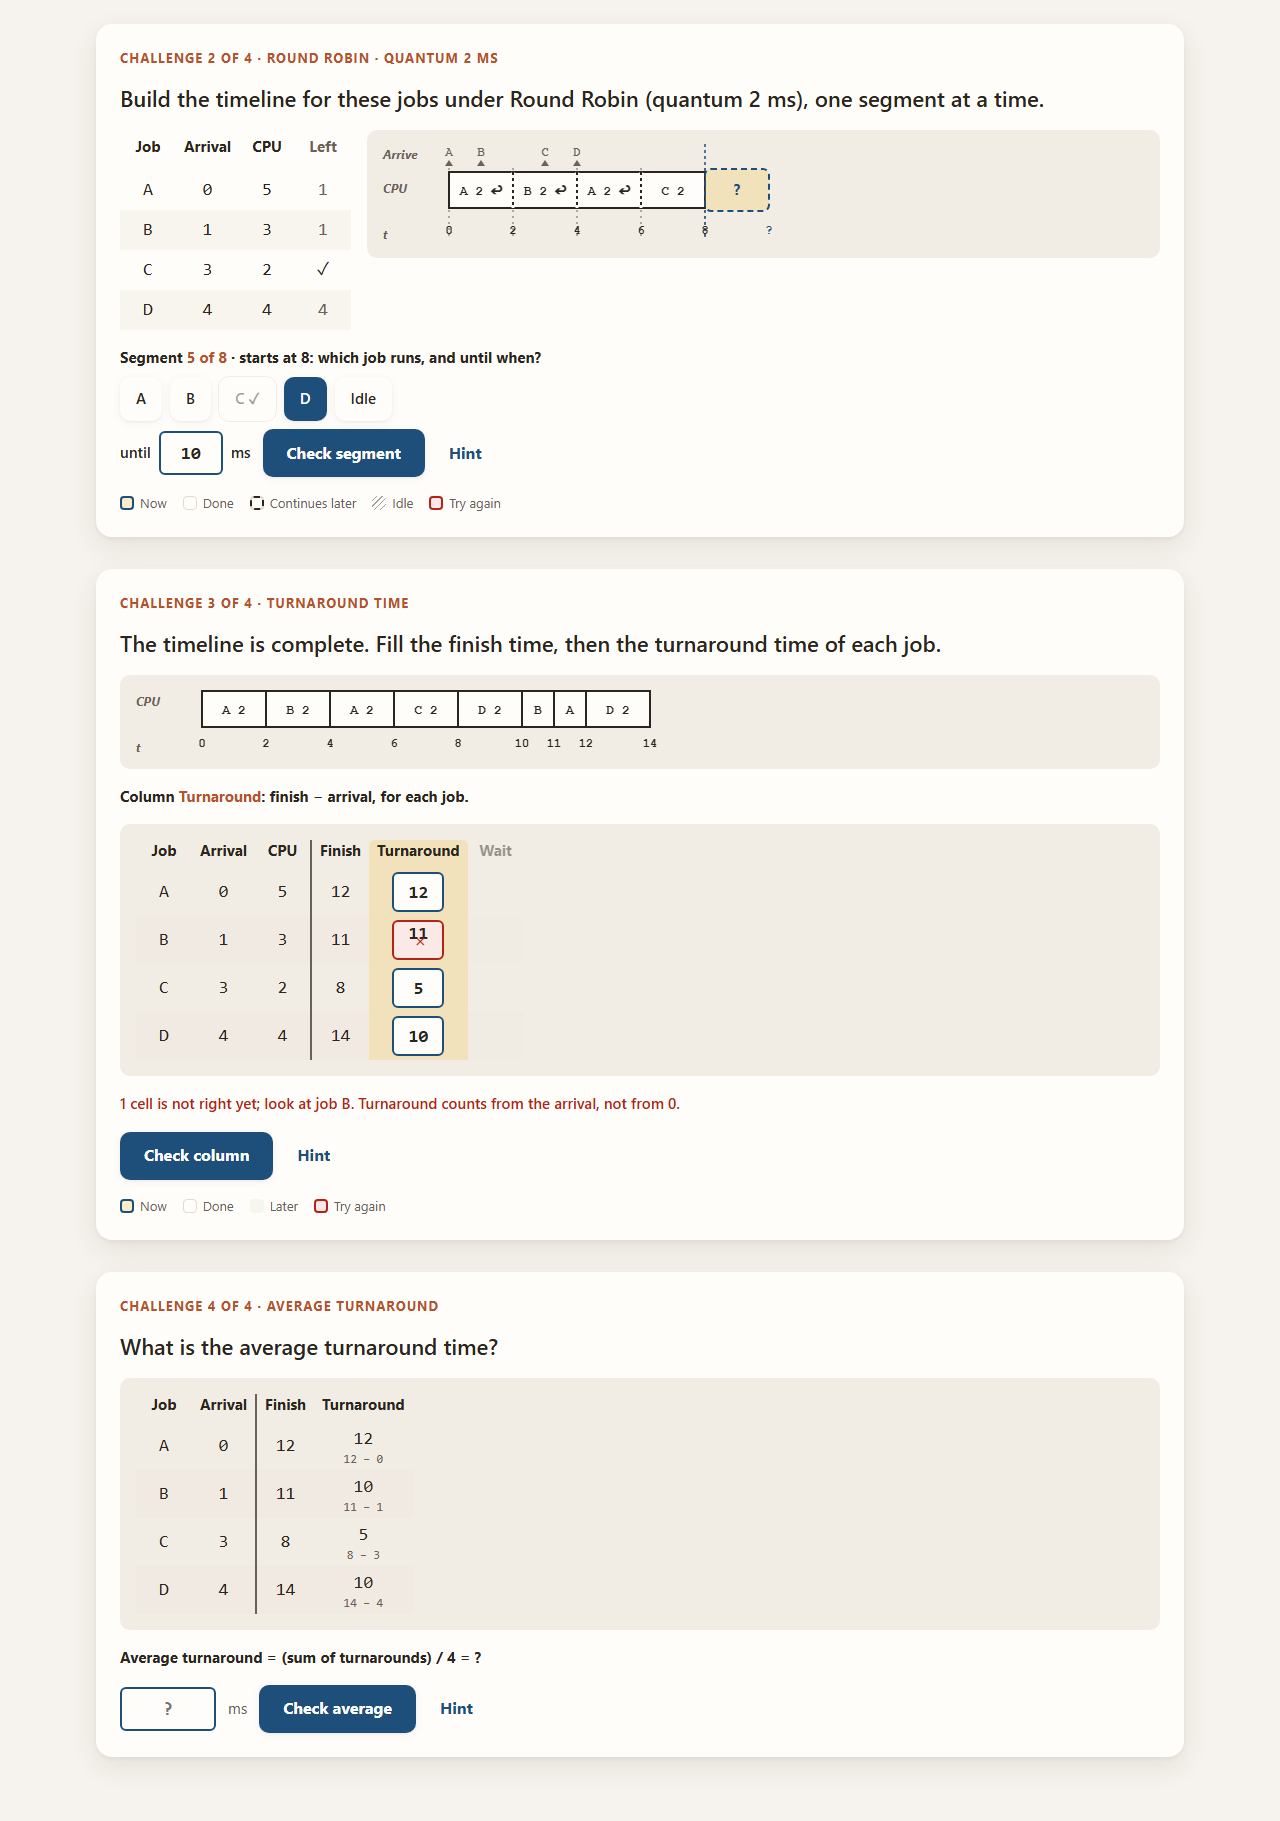
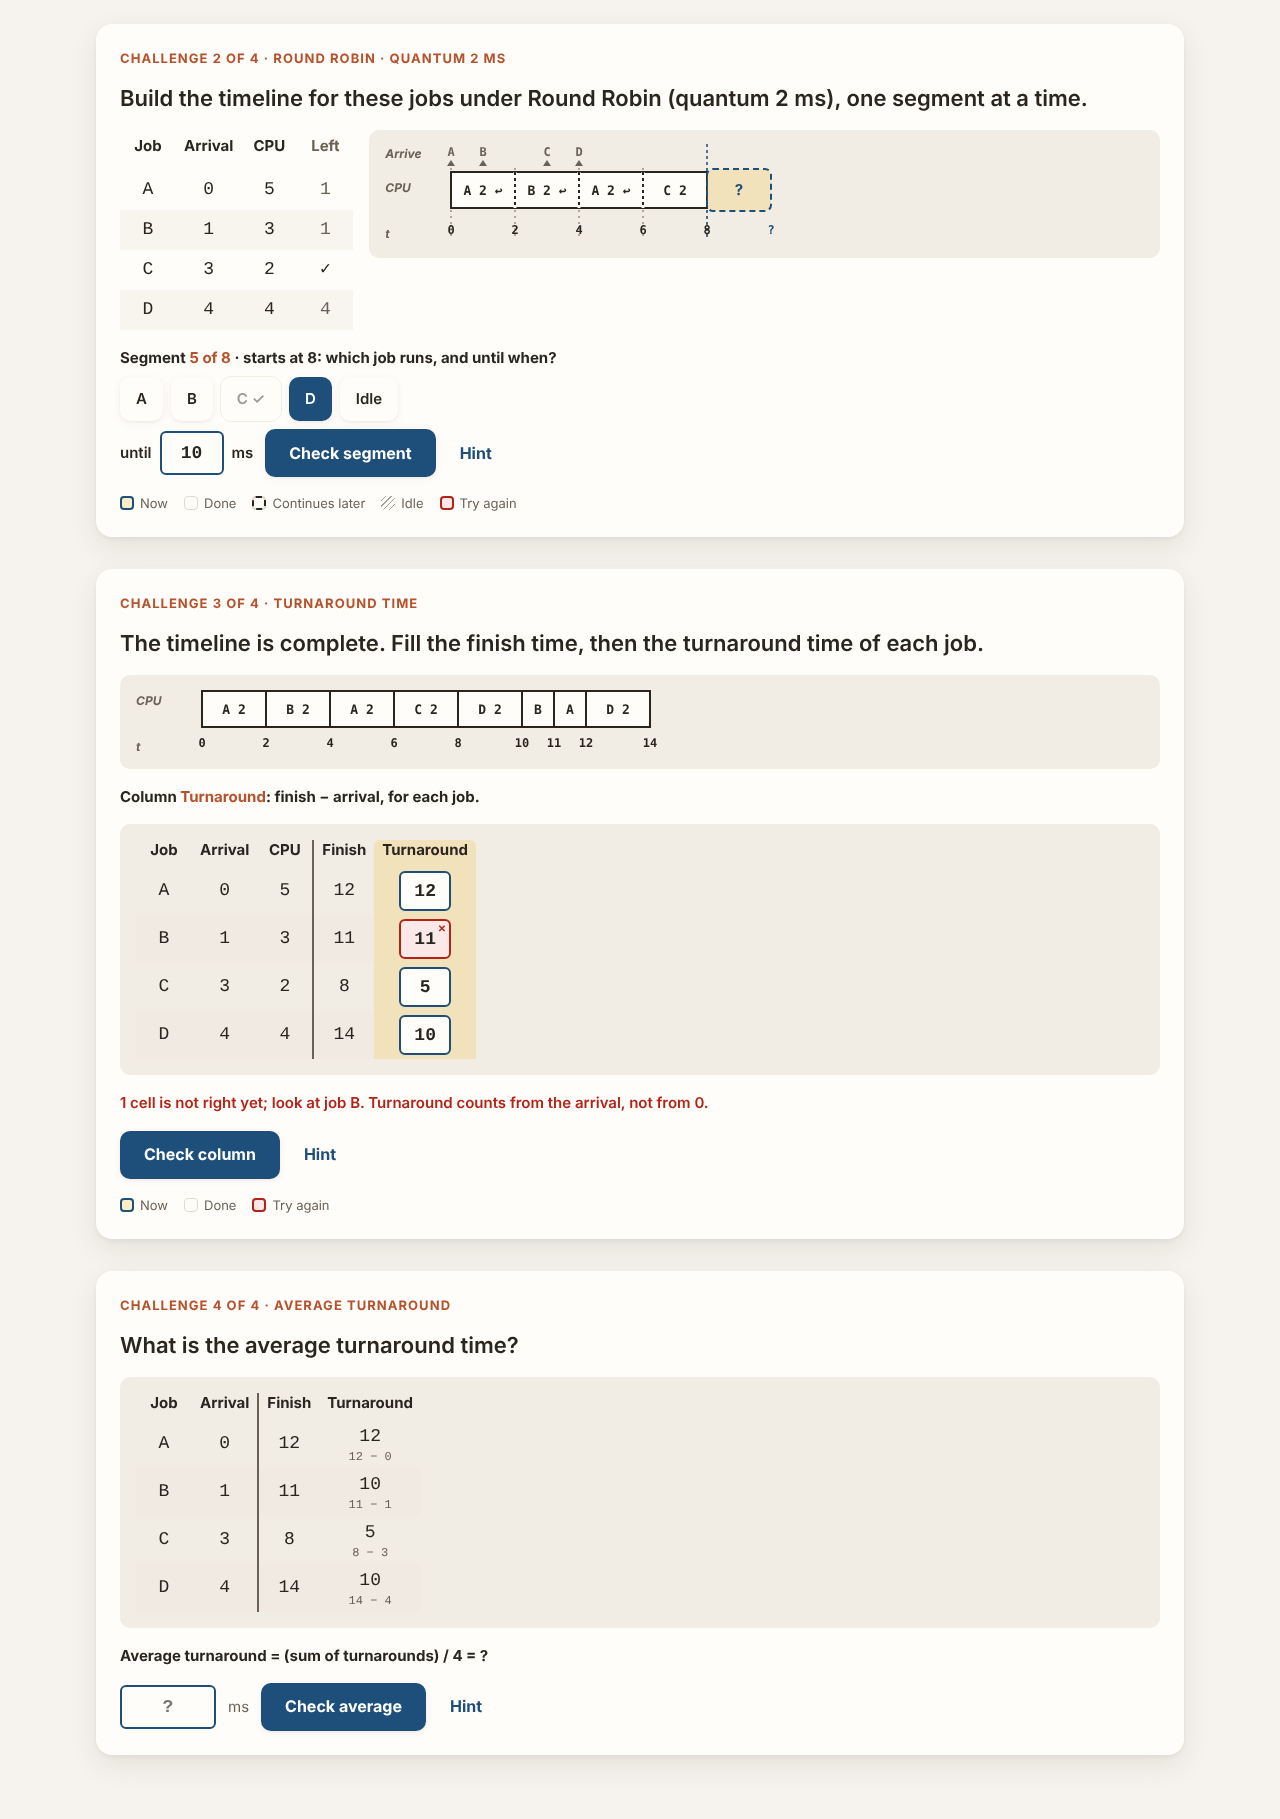
docs(design): CPET181 kinds spec fix: no waiting time, signed/decimal entry (#545)
Role: UI / Interaction Engineer

Claude-Session: https://claude.ai/code/session_01BQQUnWhCftSGR8Rfa6Ak5k

diff --git a/docs/design/cpet181/mockups/cpu-schedule.html b/docs/design/cpet181/mockups/cpu-schedule.html
@@ -73,15 +73,15 @@
     </g>
   </svg></div></div></div>
 <p class="goal">Column <b>Turnaround</b>: finish − arrival, for each job.</p>
-<div class="well"><table class="tt result" aria-label="Finish and turnaround times"><thead><tr><th>Job</th><th>Arrival</th><th>CPU</th><th class="sep">Finish</th><th class="act">Turnaround</th><th class="pend">Wait</th></tr></thead><tbody>
-<tr><td>A</td><td>0</td><td>5</td><td class="sep">12</td><td class="act"><span class="cellbtn w">12</span></td><td class="pend"></td></tr>
-<tr><td>B</td><td>1</td><td>3</td><td class="sep">11</td><td class="act"><span class="cellbtn w wrong">11</span></td><td class="pend"></td></tr>
-<tr><td>C</td><td>3</td><td>2</td><td class="sep">8</td><td class="act"><span class="cellbtn w">5</span></td><td class="pend"></td></tr>
-<tr><td>D</td><td>4</td><td>4</td><td class="sep">14</td><td class="act"><span class="cellbtn w">10</span></td><td class="pend"></td></tr>
+<div class="well"><table class="tt result" aria-label="Finish and turnaround times"><thead><tr><th>Job</th><th>Arrival</th><th>CPU</th><th class="sep">Finish</th><th class="act">Turnaround</th></tr></thead><tbody>
+<tr><td>A</td><td>0</td><td>5</td><td class="sep">12</td><td class="act"><span class="cellbtn w">12</span></td></tr>
+<tr><td>B</td><td>1</td><td>3</td><td class="sep">11</td><td class="act"><span class="cellbtn w wrong">11</span></td></tr>
+<tr><td>C</td><td>3</td><td>2</td><td class="sep">8</td><td class="act"><span class="cellbtn w">5</span></td></tr>
+<tr><td>D</td><td>4</td><td>4</td><td class="sep">14</td><td class="act"><span class="cellbtn w">10</span></td></tr>
 </tbody></table></div>
 <p class="feedback">1 cell is not right yet; look at job B. Turnaround counts from the arrival, not from 0.</p>
 <div class="row"><a class="btn btn-primary" href="#">Check column</a><a class="btn btn-quiet" href="#">Hint</a></div>
-<div class="legend"><span><i class="sw active"></i>Now</span><span><i class="sw done"></i>Done</span><span><i class="sw pend"></i>Later</span><span><i class="sw wrong"></i>Try again</span></div>
+<div class="legend"><span><i class="sw active"></i>Now</span><span><i class="sw done"></i>Done</span><span><i class="sw wrong"></i>Try again</span></div>
 </section>
 
 <!-- Challenge: average (keep it) -->

diff --git a/docs/design/cpet181/mockups/cpet181.css b/docs/design/cpet181/mockups/cpet181.css
@@ -67,3 +67,7 @@
 .fields { display: flex; gap: var(--space-3); flex-wrap: wrap; align-items: center; }
 .fields label { display: inline-flex; align-items: center; gap: var(--space-2); font-weight: 600; font-size: var(--text-sm); }
 @media (max-width: 640px) { .queue { flex-wrap: nowrap; overflow-x: auto; padding-bottom: 4px; } .queue .chip { white-space: nowrap; } }
+
+/* the wrong-cell mark sits in the cell's top-right corner, clear of the digits (#545 review note) */
+.tt.result .cellbtn { position: relative; }
+.tt.result .cellbtn.wrong::after { position: absolute; left: auto; right: 3px; top: 1px; }

diff --git a/docs/design/cpet181/kinds-spec.md b/docs/design/cpet181/kinds-spec.md
@@ -35,6 +35,19 @@ the packs (#527).
 - **Keyboard:** no drag anywhere. Choices are one `radiogroup` with a single tab stop (arrows move,
   Space/Enter picks, Check confirms). Number fields are `inputmode="numeric"` inputs, 44 px tall.
   Grids follow the truth-table ARIA grid model (one tab stop, arrows move, typing sets).
+### 0.1 Signed and decimal entry (#558)
+`NumericInput` base 10 has two opt-in props, off by default (PR #558); every other numeric field in
+the two kinds stays a plain whole-number field.
+- **`decimals={2}`** for every average: one decimal point, at most 2 places after it, `inputmode=decimal`.
+  The student types the value as the pack prints it (9.25, 16.67). Graded exactly against the truth
+  module's value rounded to 2 places; a whole result (10) is accepted as "10" or "10.00".
+- **`signed`** for relocation registers (`register` step, §2.7): one leading minus, `inputmode=text`
+  (phone number pads have no minus key). A typed "−" (U+2212) is stored as "-". The slides print
+  registers as negative numbers (for example −8192); a positive register is the `register-sign` detector.
+- Both are shown in the field's hint line ("digits 0 to 9, a leading minus sign"); the unit sits after
+  the field, outside it. All other numeric fields (end time, start, size, addresses, totals) are
+  whole, unsigned numbers.
+
 - **Primitives reused** (kinds never import each other; shared code moves to `src/kinds/shared/`):
 
 | Need | Reuse | From |
@@ -45,7 +58,7 @@ the packs (#527).
 | Fill one table column per goal; `wrongCells.first`; 36 × 44 px cells; two-level headers; sticky header on phones | the truth-table grid model and styles, lifted into `src/kinds/shared/GridColumn.tsx` + CSS (the truth-table component itself stays Boolean-only) | `src/kinds/truth-table/TruthTable.tsx`, `TruthTable.module.css` |
 | Multi-digit cell inputs, 44 px, first-wrong marking | column-addition's `.input` cells | `src/interactions/ColumnAddition/ColumnAddition.module.css` |
 | Given / focus / result states on a drawing | ADR-0009 figure states (no `figure` field needed: the drawing is the kind's own) | `src/kinds/shared/figures/figures.module.css` |
-| Numeric single answer (average, register) | `NumericInput` (base 10) | `src/interactions/NumericInput` |
+| Numeric single answer (average, register) | `NumericInput` (base 10) with `signed` / `decimals` (§0.1) | `src/interactions/NumericInput` |
 
 ---
 
@@ -58,20 +71,21 @@ the packs (#527).
   policy: "FCFS" | "SJN" | "SRT" | "Priority" | "RR",
   quantum?: number,                  // RR only
   jobs: { id: "A"|"B"|…, arrival: number, cpu: number, priority?: number }[],  // 3–6, slide order
-  phases: ("timeline" | "finish" | "turnaround" | "wait" | "average")[],       // in this order; default all
+  phases: ("timeline" | "finish" | "turnaround" | "average")[],               // in this order; default all four
   unit?: "ms",                       // label only
 }
 ```
 Truth: `schedule(jobs, policy, { quantum, tieBreak })` → `segments[] {job | "idle", start, end}`,
-per-job `finish`, `turnaround`, `wait`, and averages. Tie-break and quantum-boundary conventions
+per-job `finish` and `turnaround`, and the average turnaround. Waiting time is never asked or shown
+(the truth module may compute it internally; nothing in the kinds reads it). Tie-break and quantum-boundary conventions
 are the truth module's (pack A); the view shows nothing that depends on them.
 
 ### 1.2 Steps (ADR-0007)
 | tag | one per | answer | Check label |
 |---|---|---|---|
 | `segment` | timeline segment, in time order | `{ step, job: id \| "idle", end: number }` | Check segment |
-| `column` | phase column in `phases` order: finish, turnaround, wait | `{ step, values: number[] }` (one per job, jobs order) | Check column |
-| `average` | the asked average (turnaround; wait if `wait` is in phases) | `{ step, value: number }` | Check average |
+| `column` | phase column in `phases` order: finish, turnaround | `{ step, values: number[] }` (one per job, jobs order) | Check column |
+| `average` | the average turnaround | `{ step, value: number }`, entered to 2 decimals (§0.1) | Check average |
 
 Step vars: `segmentNumber`, `segmentCount`, `time` (the segment's start), `readyList` (ids ready at
 `time`, for hint rung 5 only), `jobId`, `segmentEnd`, `columnLabel`, `jobCount`, `quantum`,
@@ -137,9 +151,9 @@ Exactly the slide's picture: one row of boxes, tick numbers underneath.
   for the next segment, live region: "Segment 3 correct: A runs 5 to 9. Next starts at 9."
 - Last segment correct: the lane is complete; the live region says "Timeline complete."
 
-### 1.6 Result table (phases finish → turnaround → wait → average)
+### 1.6 Result table (phases finish → turnaround → average)
 The slides list Finish time and Turn Around Time as "15 − 0 = 15" per job, then the average.
-- A table under the lane: **Job · Arrival · CPU · Finish · Turnaround (· Wait)**, one row per job in
+- A table under the lane: **Job · Arrival · CPU · Finish · Turnaround**, one row per job in
   table order. Given columns are filled; the asked column is *Now*; later columns are *Later*
   (headers visible, dim). Column per goal, as truth-table fill mode; cells are 44 px tall and 56 px
   wide (two-digit numbers), 48 px on phones. First wrong cell only is marked; the feedback names
@@ -147,11 +161,9 @@ The slides list Finish time and Turn Around Time as "15 − 0 = 15" per job, the
 - Turnaround cells show the subtraction as a muted hint only after the column is correct:
   "9 − 1 = 8" (see inside). Never before.
 - **Average**: a single `NumericInput` under the table, "Average turnaround = (sum) / n = ?" with the
-  sum written out **after** the check (see inside), two decimals accepted as the pack states them
-  (truth module decides rounding). Check average. On correct: the lane's finish ticks get their
+  sum written out **after** the check (see inside), entered to **2 decimals**
+  (`decimals={2}`, §0.1) and graded exactly against the truth module's value rounded to 2 places. Check average. On correct: the lane's finish ticks get their
   job id under them (keep it) and the summary line reads the average.
-- `wait` is optional (`phases`); the slides do not compute it, so content adds it only where the
-  pack does.
 
 ### 1.7 Hints and detectors (what the view must be able to show)
 - Rung 5 (visual) focus targets: `ready-now` (the arrivals strip at `time` plus a "ready: B, D"
@@ -164,12 +176,12 @@ The slides list Finish time and Turn Around Time as "15 − 0 = 15" per job, the
   (SJN/Priority/FCFS: stopped a job early), `end-past-remaining` (RR: full quantum though less was
   left), `priority-reversed` (pack's convention inverted), `rr-queue-order` (requeued job placed
   before a same-tick arrival, or vice versa; convention from pack A), `turnaround-as-finish`
-  (forgot the arrival), `wait-as-turnaround`, `average-wrong-count`.
+  (forgot the arrival), `average-wrong-count`.
 
 ### 1.8 Phone (390 px) and desktop (1280 px)
 - 390: jobs table full width (4–5 compact columns), lane scrolls inside the well (first ~12 units
-  visible at COL 24), chips wrap to two rows, end field and Check on one row. Result table fits 6
-  columns at 48 px; a 7th (Wait) scrolls inside the well with a sticky Job column.
+  visible at COL 24), chips wrap to two rows, end field and Check on one row. Result table fits its 5
+  columns at 48 px without scrolling.
 - 1280: table beside the lane, lane fits ~26 units without scrolling at COL 32, tutor column right.
 
 ### 1.9 Explain slowly stages
@@ -275,7 +287,7 @@ Two columns from 900 px; stacked below.
 - `move`: one goal per job in address order: "After compaction, where does **Job 3** start?" A
   numeric field; on correct the job draws in the *after* column at its new address and a thin
   connector joins before → after. The last correct move draws the single free block with its size.
-- `register`: per moved job, "Relocation register of Job 3 (bytes)": numeric, negative accepted
+- `register`: per moved job, "Relocation register of Job 3 (bytes)": `NumericInput` with `signed`, negative
   as the slides write it (for example −8192). A muted note after the check shows the conversion
   "−8 KB × 1024" (see inside). Jobs that did not move are asked too (answer 0) only if the pack
   does; otherwise skipped.
@@ -301,5 +313,6 @@ free/busy lists), `merge` (indices being joined), `after` (compacted list to dra
   best-fit after a split; release case 2; compaction after the last move.
 - Keyboard-only run of one question of each kind; screen-reader summary read once per check.
 - No text under 12 px at 320 px; no sideways page scroll; one filled action per view.
+- Each question needs at least 3 number sets from the truth module (three-variant rule).
 - Nothing computed by the truth module is visible before the check that asks it (QA checks the
   Left column, waste numbers and the free-size after a split).
